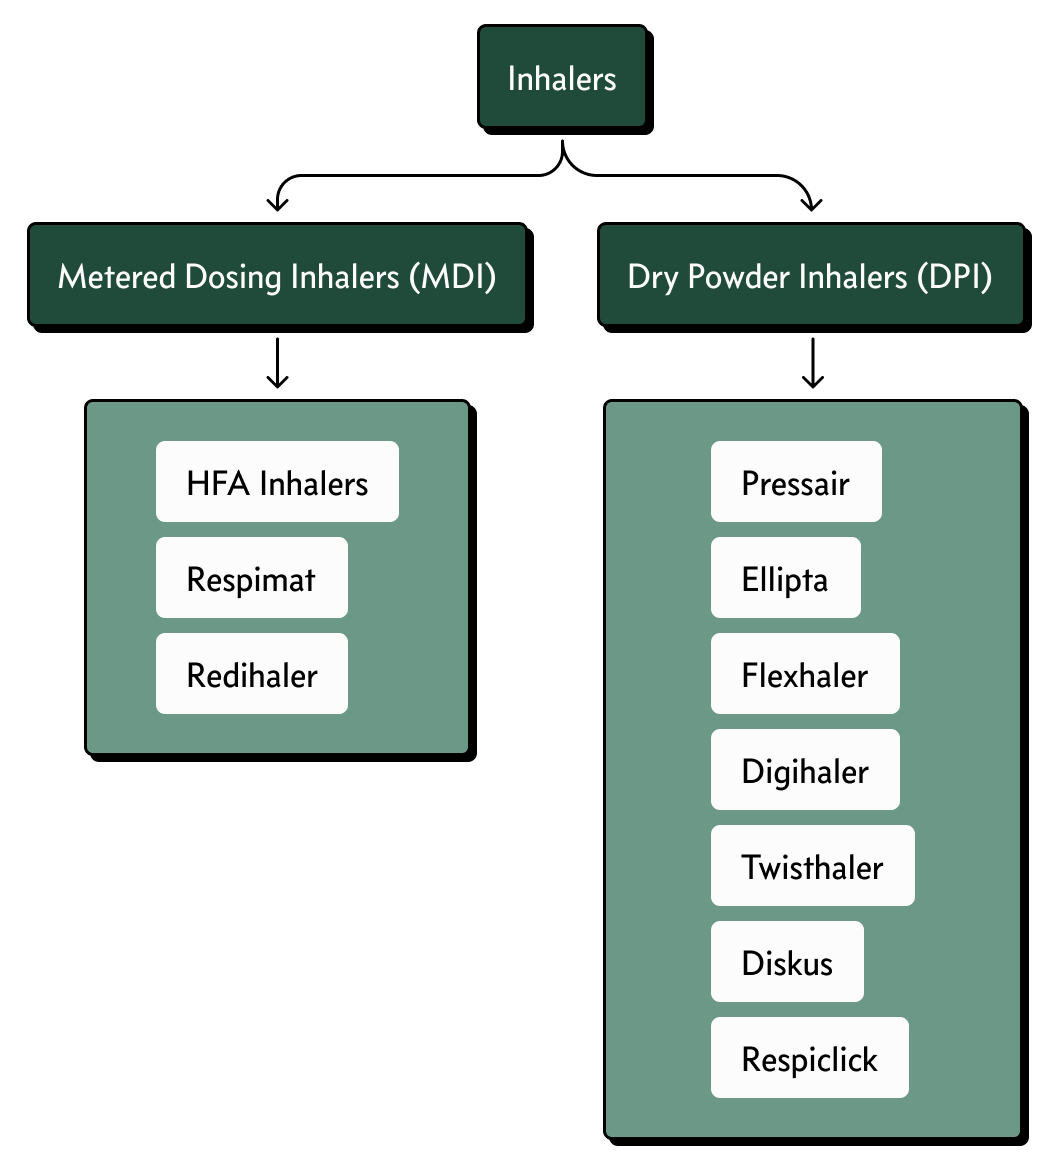
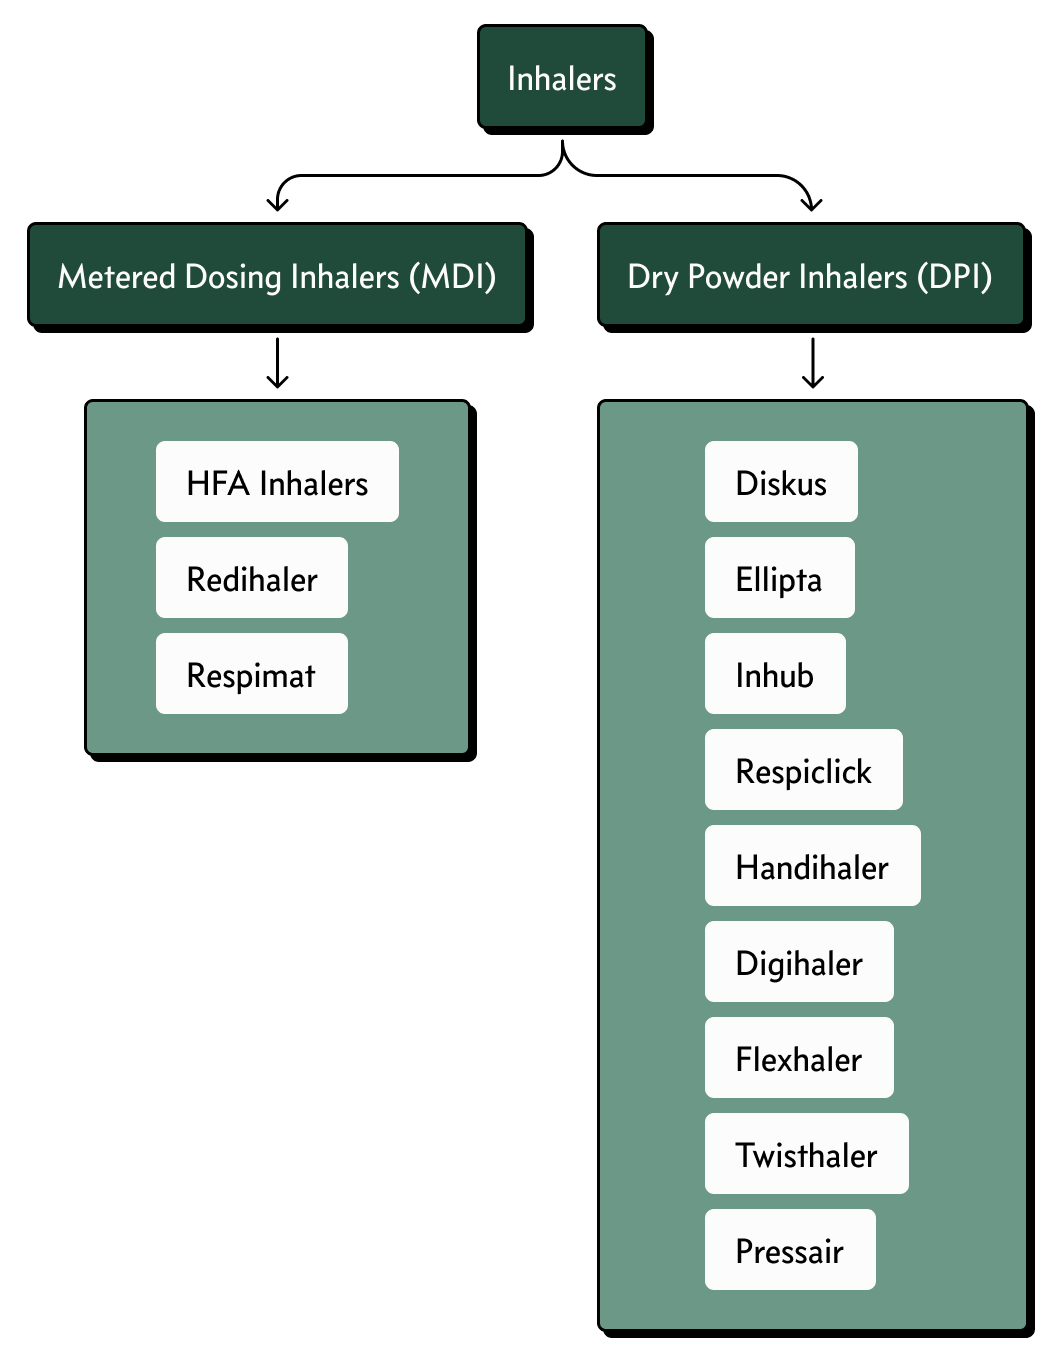
added table

Changed region(s): [[0.0, 0.0, 1.0, 0.9846]]

diff --git a/src/routes/types/+page.svelte b/src/routes/types/+page.svelte
@@ -1,11 +1,89 @@
 <script>
 	import { TopNav, Footer } from '$lib/components/index';
+	const inhalers = [
+		{
+			name: 'HFA inhalers',
+			char: 'Most common type of MDIs',
+			pro: 'Most common, easier to learn',
+			img: '/Alvesco HFA.png',
+			con: 'Requires good hand-breath coordination. Spacer can help with delivery'
+		},
+		{
+			name: 'Redihaler',
+			char: 'Delivery is activated with inhalation instead of actuation',
+			img: '/QVAR Redihaler.jpg',
+			pro: 'Does not require click or press',
+			con: 'Patient still needs to take slow, deep breath'
+		},
+		{
+			name: 'Respimat',
+			char: 'Uses soft mist instead of propellant',
+			img: '/Stiolto Respimat.jpg',
+			pro: 'Delivers slower soft mist. Better delivery. Does not need spacer',
+			con: 'More steps. Patient has to turn the base and then press a dose release buttton'
+		},
+		{
+			name: 'Diskus',
+			char: 'Most common type of DPI. Patient opens cover until it clicks. Then medicine is delivered with inhalation',
+			img: '/Serevent Diskus.jpg',
+			pro: '-',
+			con: '-'
+		},
+		{
+			name: 'Ellipta',
+			char: 'Another very common type of DPI. Works like a Diskus',
+			img: '/Anoro Ellipta.png',
+			pro: '-',
+			con: '-'
+		},
+		{
+			name: 'Handihaler',
+			char: 'Single use DPI that requires capsule for each use',
+			img: 'Spiriva Handihaler.jpg',
+			pro: '-',
+			con: 'Requires capsules to be placed each time prior to use'
+		},
+		{
+			name: 'Twisthaler',
+			char: 'An example of DPI that uses twisting motion to deliver',
+			img: '/Asmanex Twisthaler.png',
+			pro: '-',
+			con: '-'
+		},
+		{
+			name: 'Flexhaler',
+			char: 'An example of DPI that uses twisting motion to deliver',
+			img: '/Pulmicort Flexhaler.jpg',
+			pro: '-',
+			con: '-'
+		},
+		{
+			name: 'Pressair',
+			char: 'DPI device that uses pushing down of a button to deliver',
+			img: '/Duaklir Pressair.jpg',
+			pro: '-',
+			con: '-'
+		},
+		{
+			name: 'Inhub',
+			char: 'DPI device that works similar to a Diskus',
+			img: '/Wixela.png',
+			pro: '-',
+			con: '-'
+		},
+		{
+			name: 'Respiclick',
+			char: 'Delivers when cap is clicked back',
+			img: '/ProAir RespiClick.png',
+			pro: 'No washing, priming, shaking. No hand-breath coordination',
+			con: 'Hard to be approved by insurance'
+		}
+	];
 </script>
 
 <TopNav />
 
-<div class="prose-lg mx-auto max-w-4xl p-8 dark:prose-invert md:p-20">
-	<p>page under construction.</p>
+<div class="prose-lg mx-auto max-w-5xl p-8 dark:prose-invert md:p-20">
 	<h2>Types of Inhalers</h2>
 	<p>
 		In general, the two big categories of inhalers are metered dose inhalers (MDI) and dry powder
@@ -14,19 +92,56 @@
 	<img src="/inhalersLight.png" class="w-full" alt="" />
 	<p>
 		Metered dose inhalers (MDIs) are pressurized containers with medicine in aerosol form. The most
-		common propellant used is usually Hydrofluoroalkane, or HFA. There are other types of MDI that
-		uses mist without propellant. Examples include redihaler and respimat. MDI requires patients to
-		take a slow, deep breath after clicking the inhaler. This can be problematic for patients with
-		difficulty coordinating breathing and actuation.
+		common propellant used is usually Hydrofluoroalkane, or HFA. MDI requires patients to
+		click/actuate and then immediately take a slow, deep breath. This can be problematic for
+		patients with difficulty coordinating breathing and actuation. The use of a spacer can help with
+		delivery of the medication. Spacer holds the medicine in the chamber, and patients can then take
+		breath in without having to worry about the exact timing. Another type of MDI called Respimat
+		uses soft mist without propellant. This mitigates the need to use a spacer. Downside is that
+		there is an extra step with twisting the inhaler prior to use and may require more education.
 	</p>
 
 	<p>
-		Dry powder inhalers also deliver medication without a propellant. This requires the patient to
-		take in a fast, forceful breath. Some DPIs require patients to insert a capsule, others will
-		require only push a button or pull back a lever. Patients will need to be able to have
-		sufficient inhalation force. This can be prolematic for patients with poor lung functions to
-		start with.
+		Dry powder inhalers (DPI) deliver medication without a propellant. This requires the patient to
+		take in a fast, forceful breath. There are many types of DPIs. Some require patients to insert a
+		capsule, others will require only push a button or pull back a lever. Patients will need to be
+		able to have sufficient inhalation force. This can be prolematic for patients with poor lung
+		functions to start with.
 	</p>
+
+	<p>A more detailed table of different examples of inhalers is as below:</p>
+
+	<table class="table-auto">
+		<thead class=" dark:bg-neutral-900">
+			<tr>
+				<td
+					class="border-y-2 border-black bg-main-400 p-2 px-3 dark:bg-main-800 md:whitespace-nowrap"
+					>Inhaler Type</td
+				>
+				<td
+					class="border-y-2 border-black bg-main-400 p-2 px-3 dark:bg-main-800 md:whitespace-nowrap"
+				>
+					Image
+				</td>
+				<td class="border-y-2 border-black bg-main-400 p-2 px-3 dark:bg-main-800"
+					>Characteristics</td
+				>
+				<td class="border-y-2 border-black bg-main-400 p-2 px-3 dark:bg-main-800">Upsides</td>
+				<td class="border-y-2 border-black bg-main-400 p-2 px-3 dark:bg-main-800">Downsides</td>
+			</tr>
+		</thead>
+		<tbody>
+			{#each inhalers as inhaler}
+				<tr class="last:border-b-2 last:border-black even:bg-neutral-200 dark:even:bg-neutral-500">
+					<td class="px-3 py-2">{inhaler.name}</td>
+					<td class="h-24 w-24"><img src={inhaler.img} class="object-contain" /></td>
+					<td class="px-3 py-2">{inhaler.char}</td>
+					<td class="px-3 py-2">{inhaler.pro}</td>
+					<td class="px-3 py-2">{inhaler.con}</td>
+				</tr>
+			{/each}
+		</tbody>
+	</table>
 </div>
 
 <Footer />
